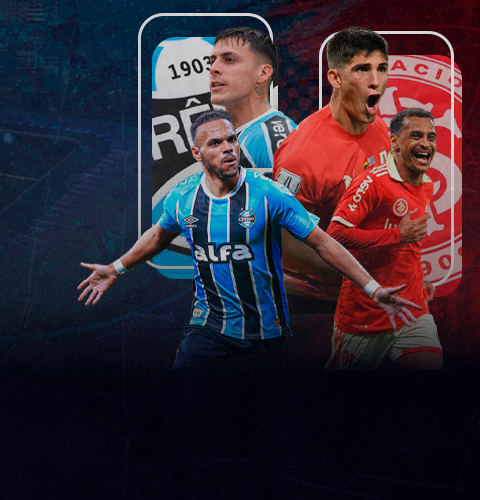
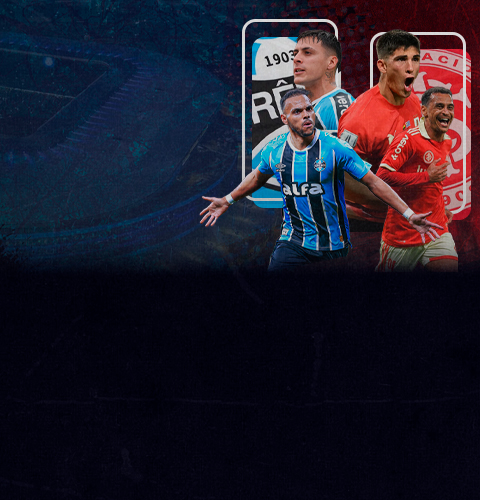
s:image updates. breakpoints updates, new breakpoint 767

diff --git a/style.css b/style.css
@@ -165,6 +165,8 @@ body {
     text-align: center;
     width: 100px;
     height: 100px;
+    max-width: 100px;
+    min-height: 100px;
     border-radius: 0.5rem;
     font-size: 0.875rem;
     font-weight: 500;
@@ -184,9 +186,9 @@ body {
     display: flex;
     flex-direction: column;
     gap: 1rem;
-    padding: 2rem;
+    padding: 1rem;
     border-radius: 1rem;
-    max-width: 340px;
+    max-width: 343px;
     width: 100%;
     box-shadow: 0 10px 30px rgba(0, 0, 0, 0.3);
 }
@@ -328,8 +330,8 @@ body {
 
 }
 
-/* Mobile pequeno < 480px */
-@media (max-width: 767px) {
+/* Mobile grande < 767px */
+@media (min-width: 480px) and (max-width: 767px) {
   body {
         background-image: none;
     }
@@ -337,12 +339,13 @@ body {
     .hero-header {
         height: auto;
         gap: 0.5rem;
-        background-image: url('./assets/images/hero-375x500.jpg');
+        background-image: url('./assets/images/hero-480x500.jpg');
         background-position: center top;
         width: 100vw;
         max-width: none;
         margin: 0;
         padding: 0;
+        align-items: center;
     }
 
     .main-container {
@@ -353,7 +356,7 @@ body {
     }
 
     .hero-content {
-        align-items: flex-start;
+        align-items: center;
         text-align: left;
         height: auto;
         min-height: 440px;
@@ -371,7 +374,7 @@ body {
 
     .features-grid {
         flex-direction: row;
-        justify-content: space-between;
+        justify-content: center;
         flex-wrap: nowrap;
         gap: 0.5rem;
         padding: 1rem;
@@ -392,12 +395,88 @@ body {
 
     .brand-logo {
         padding: 1rem;
-        width: 80px;
+        width: 120px;
     }
 
     .content-wrapper {
         margin-top: 2rem;
         padding: 1rem;
+        max-width: 320px;
+    }
+}
+
+/* Mobile pequeno < 480px */
+@media (max-width: 479px) {
+  body {
+        background-image: none;
+    }
+
+    .hero-header {
+        height: auto;
+        gap: 0.5rem;
+        background-image: url('./assets/images/hero-375x500.jpg');
+        background-position: center top;
+        width: 100vw;
+        max-width: none;
+        margin: 0;
+        padding: 0;
+        align-items: center;
+    }
+
+    .main-container {
+        flex-direction: column;
+        height: auto;
+        gap: 1rem;
+        padding: 0;
+    }
+
+    .hero-content {
+        align-items: center;
+        text-align: left;
+        height: auto;
+        min-height: 440px;
+        margin-top: 0;
+        width: 100%;
+        max-width: none;
+    }
+
+    .registration-section {
+        width: 100%;
+        max-width: none;
+        justify-content: center;
+        padding: 0 1rem;
+    }
+
+    .features-grid {
+        flex-direction: row;
+        justify-content: center;
+        flex-wrap: nowrap;
+        gap: 0.5rem;
+        padding: 1rem;
+    }
+
+    .feature-box {
+        flex: 1;
+        width: 100%;
+        height: 80px;
+        font-size: 0.75rem;
+    }
+
+    .registration-form {
+        margin-top: 2rem;
+        width: 100%;
+        max-width: 400px;
+    }
+
+    .brand-logo {
+        padding: 1rem;
+        width: 120px;
+    }
+
+    .content-wrapper {
+        margin-top: 2rem;
+        padding: 1rem;
+        max-width: 320px;
     }
 }
 
